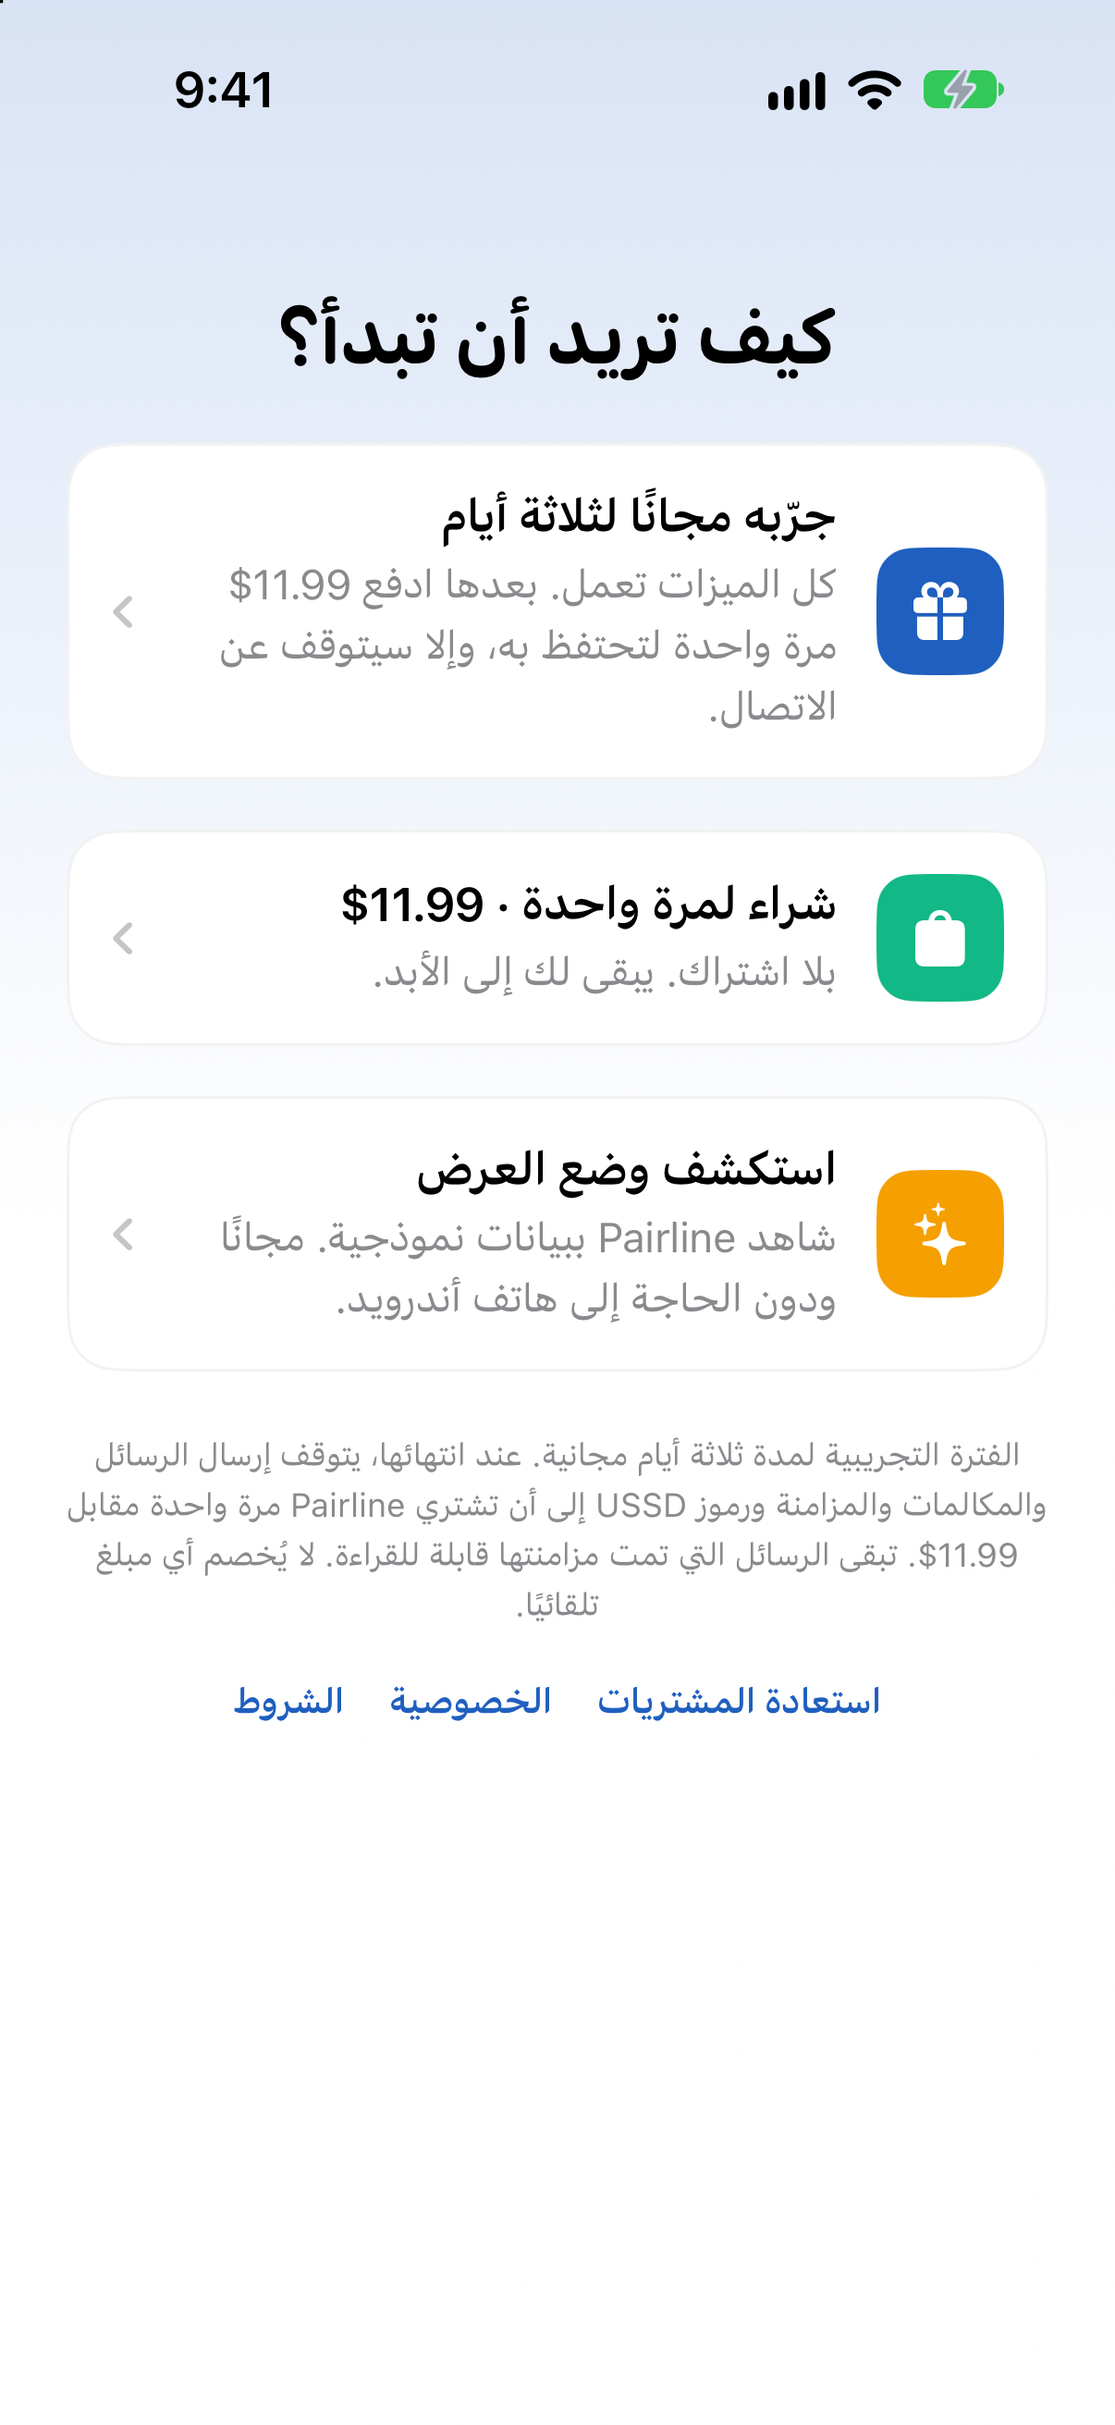
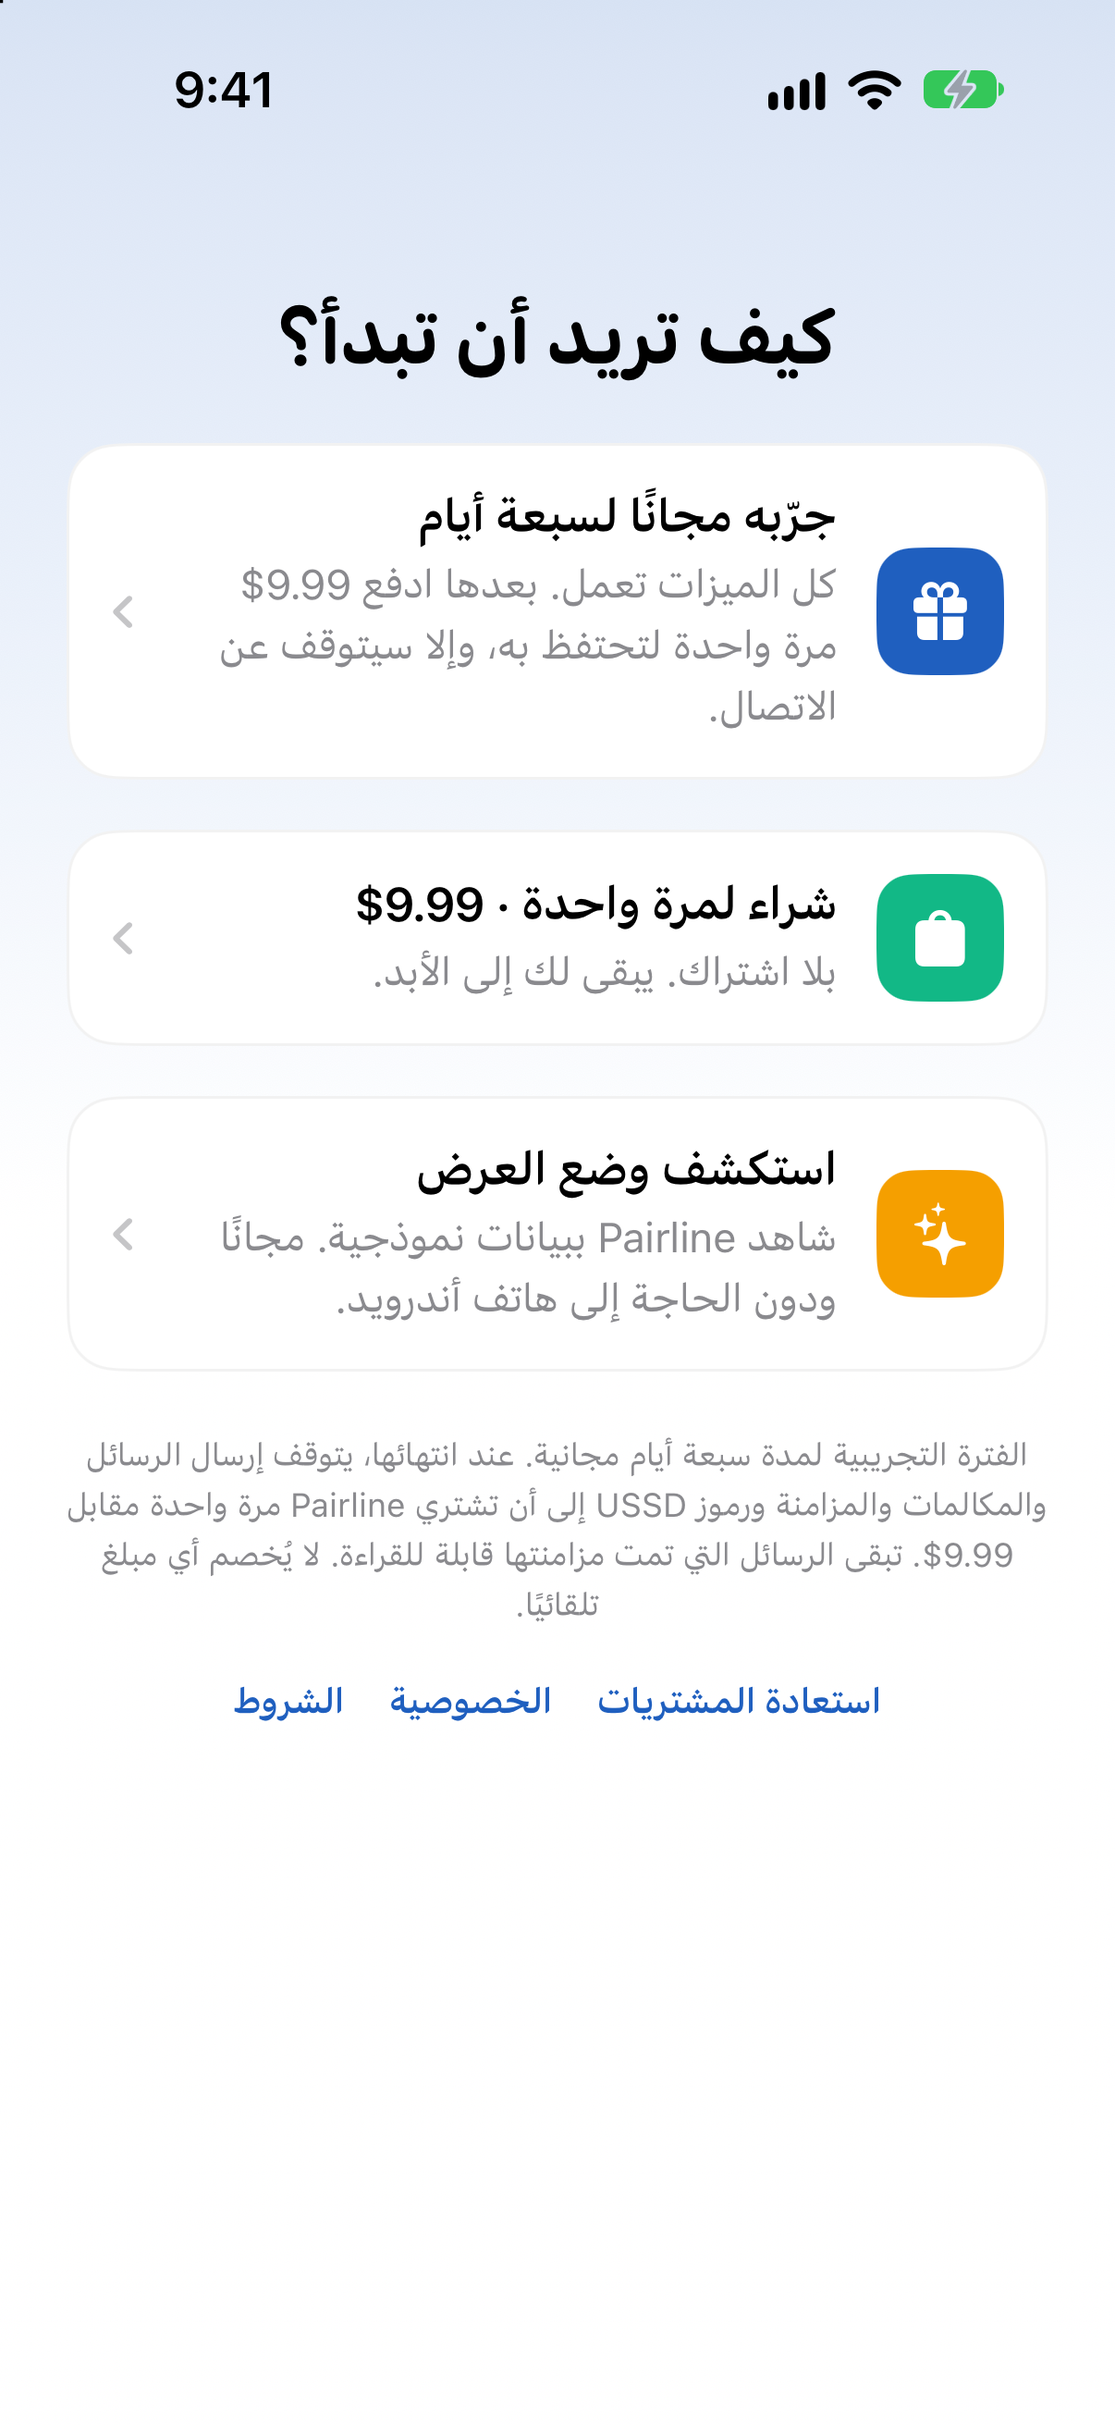
7-day free trial and $9.99 (D-036): new 7-day Trial product, texts in EN/FA/AR/TR, StoreKit file, tests, listing copy
- TrialPolicy.duration 7 days; trial product app.pairline.ios.trial7day ('7-day Trial', free, no payment method)
- Full Access $9.99 (StoreKit file, fallback price, App Store Connect)
- Every trial/price text and its fa/ar/tr translation; start-options and paywall screenshots retaken
- Marketing screenshots use the list price instead of a cached sandbox price (debug builds only)
- App Store description, promotional text, slide 7, review notes and iap.py updated

diff --git a/ios/PairlineTests/BusinessLogicTests.swift b/ios/PairlineTests/BusinessLogicTests.swift
@@ -26,14 +26,14 @@ final class TrialPolicyTests: XCTestCase {
 
     func testTurningTheClockBackDoesNotExtendTheTrial() {
         let store = MemoryTimeStore()
-        // Day 4: the trial has ended, and the app saw that time.
-        let day4 = start.addingTimeInterval(4 * 86400)
-        let seen = TrialPolicy.trustedNow(deviceNow: day4, highWater: store.highWater, signedDates: [start])
+        // Day 8: the trial has ended, and the app saw that time.
+        let day8 = start.addingTimeInterval(8 * 86400)
+        let seen = TrialPolicy.trustedNow(deviceNow: day8, highWater: store.highWater, signedDates: [start])
         store.save(seen)
         // The user sets the clock back to day 1.
         let rewound = start.addingTimeInterval(86400)
         let now = TrialPolicy.trustedNow(deviceNow: rewound, highWater: store.highWater, signedDates: [start])
-        XCTAssertEqual(now, day4)
+        XCTAssertEqual(now, day8)
         XCTAssertEqual(TrialPolicy.state(purchased: false, trialStart: start, now: now),
                        .expired(endedAt: start.addingTimeInterval(TrialPolicy.duration)))
     }
@@ -53,7 +53,7 @@ final class TrialPolicyTests: XCTestCase {
 
     func testRemainingAndReminder() {
         let end = start.addingTimeInterval(TrialPolicy.duration)
-        XCTAssertEqual(TrialPolicy.remaining(until: end, now: start).days, 3)
+        XCTAssertEqual(TrialPolicy.remaining(until: end, now: start).days, 7)
         let left = TrialPolicy.remaining(until: end, now: end.addingTimeInterval(-(26 * 3600 + 60)))
         XCTAssertEqual(left.days, 1)
         XCTAssertEqual(left.hours, 3)

diff --git a/ios/Pairline/Store/PaywallView.swift b/ios/Pairline/Store/PaywallView.swift
@@ -1,6 +1,6 @@
 import SwiftUI
 
-/// One-time purchase with a free 3-day trial (D-017). Before the trial starts it states the duration, what stops
+/// One-time purchase with a free 7-day trial (D-017, D-036). Before the trial starts it states the duration, what stops
 /// working afterwards, and the price (App Review guideline 3.1.1).
 struct PaywallView: View {
     @Environment(\.dismiss) private var dismiss
@@ -114,7 +114,7 @@ struct PaywallView: View {
                         if await purchases.startTrial() { finish() }
                     }
                 } label: {
-                    busyLabel(Text("Start 3-day free trial"))
+                    busyLabel(Text("Start 7-day free trial"))
                 }
                 .buttonStyle(PrimaryButtonStyle())
                 .disabled(purchases.busy)
@@ -127,7 +127,7 @@ struct PaywallView: View {
                 }
                 .buttonStyle(SecondaryButtonStyle())
                 .disabled(purchases.busy)
-                Text("Free for 3 days, then \(purchases.priceText) once to keep using Pairline. If you don't buy, sending messages, calls, syncing and USSD stop after the trial; your synced messages stay readable. Nothing is charged automatically.")
+                Text("Free for 7 days, then \(purchases.priceText) once to keep using Pairline. If you don't buy, sending messages, calls, syncing and USSD stop after the trial; your synced messages stay readable. Nothing is charged automatically.")
                     .font(.caption)
                     .foregroundStyle(.secondary)
                     .multilineTextAlignment(.center)

diff --git a/ios/Pairline/Onboarding/OnboardingFlow.swift b/ios/Pairline/Onboarding/OnboardingFlow.swift
@@ -229,7 +229,7 @@ private struct ChoicePage: View {
                         onPair()
                     }
                 default:
-                    OptionCard(symbol: "gift.fill", tint: .brandFill, title: Text("Try free for 3 days"),
+                    OptionCard(symbol: "gift.fill", tint: .brandFill, title: Text("Try free for 7 days"),
                                text: Text("Everything works. Then \(purchases.priceText) once to keep it, or it stops connecting.")) {
                         Task {
                             if await purchases.startTrial() { onPair() }
@@ -249,7 +249,7 @@ private struct ChoicePage: View {
                 if purchases.busy {
                     ProgressView().padding(.top, 4)
                 }
-                Text("The 3-day trial is free. When it ends, sending messages, calls, syncing and USSD stop until you buy Pairline for \(purchases.priceText) once. Messages already synced stay readable. Nothing is charged automatically.")
+                Text("The 7-day trial is free. When it ends, sending messages, calls, syncing and USSD stop until you buy Pairline for \(purchases.priceText) once. Messages already synced stay readable. Nothing is charged automatically.")
                     .font(.caption)
                     .foregroundStyle(.secondary)
                     .multilineTextAlignment(.center)

diff --git a/ios/Pairline/Store/PurchaseManager.swift b/ios/Pairline/Store/PurchaseManager.swift
@@ -1,13 +1,13 @@
 import Foundation
 import StoreKit
 
-/// StoreKit 2 purchases (D-017). Two non-consumables: a free "3-day Trial" and "Pairline Full Access".
+/// StoreKit 2 purchases (D-017, D-036). Two non-consumables: a free "7-day Trial" and "Pairline Full Access".
 /// Entitlements are verified on the device from Apple-signed transactions; there's no receipt server.
 @MainActor
 final class PurchaseManager: ObservableObject {
-    static let trialID = "app.pairline.ios.trial3day"
+    static let trialID = "app.pairline.ios.trial7day"
     static let fullID = "app.pairline.ios.full"
-    static let fallbackPrice = "$11.99"
+    static let fallbackPrice = "$9.99"
 
     @Published private(set) var access: AccessState = .loading
     @Published private(set) var fullProduct: Product?
@@ -49,7 +49,13 @@ final class PurchaseManager: ObservableObject {
         }
     }
 
-    var priceText: String { fullProduct?.displayPrice ?? Self.fallbackPrice }
+    var priceText: String {
+        #if DEBUG
+        // Store screenshots show the list price, not whatever the App Store sandbox still has cached.
+        if DebugSettings.marketingScreenshots { return Self.fallbackPrice }
+        #endif
+        return fullProduct?.displayPrice ?? Self.fallbackPrice
+    }
 
     func loadProducts() async {
         do {

diff --git a/docs/app-store/slides.html b/docs/app-store/slides.html
@@ -116,9 +116,9 @@ const SLIDES = [
     ar: ["الخصوصية", "الخصوصية\nفي الأساس", "تشفير تام بين هاتفيك. بلا خوادم ولا حسابات ولا تتبّع."],
     tr: ["Gizlilik", "Gizlilik\nen baştan", "Uçtan uca şifreli. Sunucu yok, hesap yok, izleme yok."] },
   { shot: "02-start-options",
-    en: ["One-time purchase", "Pay once.\nKeep it.", "Try it free for 3 days. No subscription, ever."],
-    ar: ["شراء لمرة واحدة", "ادفع مرة واحدة\nواحتفظ به", "جرّبه مجانًا لمدة 3 أيام. بلا اشتراك أبدًا."],
-    tr: ["Tek seferlik satın alma", "Bir kez ödeyin,\nsizin olsun", "3 gün ücretsiz deneyin. Abonelik yok."] },
+    en: ["One-time purchase", "Pay once.\nKeep it.", "Try it free for a week. No subscription, ever."],
+    ar: ["شراء لمرة واحدة", "ادفع مرة واحدة\nواحتفظ به", "جرّبه مجانًا لمدة أسبوع. بلا اشتراك أبدًا."],
+    tr: ["Tek seferlik satın alma", "Bir kez ödeyin,\nsizin olsun", "Bir hafta ücretsiz deneyin. Abonelik yok."] },
 ];
 
 const params = new URLSearchParams(location.hash.slice(1));

diff --git a/ios/PairlineTests/StoreKitTests.swift b/ios/PairlineTests/StoreKitTests.swift
@@ -39,8 +39,8 @@ final class StoreKitTests: XCTestCase {
         XCTAssertEqual(trial?.type, .nonConsumable)
         XCTAssertEqual(trial?.price, 0)
         XCTAssertEqual(full?.type, .nonConsumable)
-        XCTAssertEqual(full?.price, Decimal(string: "11.99"))
-        XCTAssertEqual(trial?.displayName, "3-day Trial")
+        XCTAssertEqual(full?.price, Decimal(string: "9.99"))
+        XCTAssertEqual(trial?.displayName, "7-day Trial")
     }
 
     func testTrialThenExpiryThenPurchase() async throws {
@@ -55,8 +55,8 @@ final class StoreKitTests: XCTestCase {
         XCTAssertEqual(end.timeIntervalSince(now), TrialPolicy.duration, accuracy: 120)
         XCTAssertTrue(manager.access.allowsLink)
 
-        // Four days later the link features lock.
-        now = now.addingTimeInterval(4 * 86400)
+        // Eight days later the link features lock.
+        now = now.addingTimeInterval(8 * 86400)
         manager.evaluate()
         guard case .expired = manager.access else { return XCTFail("expected expired, got \(manager.access)") }
         XCTAssertFalse(manager.access.allowsLink)

diff --git a/ios/Pairline/Settings/HelpCenterView.swift b/ios/Pairline/Settings/HelpCenterView.swift
@@ -227,7 +227,7 @@ struct FAQ: Identifiable {
         FAQ(id: 4, question: "Can I talk on the iPhone during calls?",
             answer: "Not yet. You answer, decline and place calls from the iPhone, and the audio stays on the Android phone. iPhone call audio is planned."),
         FAQ(id: 5, question: "What happens after the free trial?",
-            answer: "After 3 days, sending messages, calls, syncing and USSD stop until you buy Pairline once. Messages already on this iPhone stay readable, and demo mode, help and settings keep working."),
+            answer: "After 7 days, sending messages, calls, syncing and USSD stop until you buy Pairline once. Messages already on this iPhone stay readable, and demo mode, help and settings keep working."),
         FAQ(id: 6, question: "Is it a subscription?",
             answer: "No. Pairline is a one-time purchase. The Android app is free."),
         FAQ(id: 7, question: "Can I see the source code?",

diff --git a/ios/Pairline/Store/TrialPolicy.swift b/ios/Pairline/Store/TrialPolicy.swift
@@ -1,6 +1,6 @@
 import Foundation
 
-/// Access to link features under D-017: 3 free days from the trial's Apple-signed purchase date, then a
+/// Access to link features under D-017 and D-036: 7 free days from the trial's Apple-signed purchase date, then a
 /// one-time purchase.
 enum AccessState: Equatable {
     case loading
@@ -25,7 +25,8 @@ enum AccessState: Equatable {
 }
 
 enum TrialPolicy {
-    static let duration: TimeInterval = 3 * 24 * 3600
+    /// A free week (D-036).
+    static let duration: TimeInterval = 7 * 24 * 3600
     /// The reminder goes out about a day before the trial ends.
     static let reminderLead: TimeInterval = 24 * 3600
 

diff --git a/ios/Pairline/App/RootView.swift b/ios/Pairline/App/RootView.swift
@@ -231,7 +231,7 @@ struct BridgeBanners: View {
                             .font(.subheadline.weight(.semibold))
                     }
                 case .notStarted where app.isPaired:
-                    InfoBanner(symbol: "gift.fill", tint: .brandBlue, text: Text("Start your 3 free days to connect.")) {
+                    InfoBanner(symbol: "gift.fill", tint: .brandBlue, text: Text("Start your free week to connect.")) {
                         Button("Start") { app.showPaywall = true }
                             .font(.subheadline.weight(.semibold))
                     }

diff --git a/docs/app-store/api/iap.py b/docs/app-store/api/iap.py
@@ -12,18 +12,19 @@ REPO = os.path.abspath(os.path.join(os.path.dirname(os.path.abspath(__file__)), 
 REVIEW_SHOT = f"{REPO}/docs/screenshots/ios/en/03-paywall.png"
 PRODUCTS = [
     {
-        "productId": "app.pairline.ios.trial3day", "name": "3-day Trial", "price": "0.0",
+        "productId": "app.pairline.ios.trial7day", "name": "7-day Trial", "price": "0.0",
         "image": f"{REPO}/docs/app-store/out/iap/trial.png",
-        "reviewNote": "Free non-consumable that starts the 3-day trial (App Review Guideline 3.1.1). When the 3 days "
-                      "end, the app asks the user to buy Pairline Full Access. Nothing renews or is charged.",
+        "reviewNote": "Free non-consumable that starts the 7-day trial (App Review Guideline 3.1.1); it needs no "
+                      "payment method. When the 7 days end, the app asks the user to buy Pairline Full Access. "
+                      "Nothing renews or is charged.",
         "loc": {
-            "en-US": ("3-day Trial", "Try every Pairline feature free for 3 days."),
-            "ar-SA": ("تجربة لمدة 3 أيام", "جرّب كل ميزات Pairline مجانًا لمدة 3 أيام."),
-            "tr": ("3 Günlük Deneme", "Tüm özellikleri 3 gün ücretsiz deneyin."),
+            "en-US": ("7-day Trial", "Try every Pairline feature free for 7 days."),
+            "ar-SA": ("تجربة لمدة 7 أيام", "جرّب كل ميزات Pairline مجانًا لمدة 7 أيام."),
+            "tr": ("7 Günlük Deneme", "Tüm özellikleri 7 gün ücretsiz deneyin."),
         },
     },
     {
-        "productId": "app.pairline.ios.full", "name": "Pairline Full Access", "price": "11.99",
+        "productId": "app.pairline.ios.full", "name": "Pairline Full Access", "price": "9.99",
         "image": f"{REPO}/docs/app-store/out/iap/full.png",
         "reviewNote": "One-time purchase that unlocks Pairline permanently. Restore Purchases is on the start "
                       "screen, the paywall and in Settings.",
@@ -102,12 +103,15 @@ for p in PRODUCTS:
         ok(*request("POST", "/v1/inAppPurchaseLocalizations", body), f"localization {locale}")
         print("  localization", locale)
 
+    points = all_pages(f"/v2/inAppPurchases/{iap_id}/pricePoints?filter%5Bterritory%5D=USA&limit=200")
+    point = next(pp for pp in points if float(pp["attributes"]["customerPrice"]) == float(p["price"]))
     status, sched = request("GET", f"/v2/inAppPurchases/{iap_id}/iapPriceSchedule?include=manualPrices")
-    if status == 200 and sched.get("included"):
-        print("  price already set")
+    current = {(x.get("relationships", {}).get("inAppPurchasePricePoint", {}).get("data") or {}).get("id")
+               for x in (sched.get("included", []) if status == 200 else [])}
+    if point["id"] in current:
+        print("  price already", p["price"])
     else:
-        points = all_pages(f"/v2/inAppPurchases/{iap_id}/pricePoints?filter%5Bterritory%5D=USA&limit=200")
-        point = next(pp for pp in points if pp["attributes"]["customerPrice"] in (p["price"], p["price"].rstrip("0").rstrip(".") or "0"))
+        # Posting a schedule replaces the previous one (a price change takes effect right away).
         body = {"data": {"type": "inAppPurchasePriceSchedules",
                          "relationships": {"inAppPurchase": {"data": {"type": "inAppPurchases", "id": iap_id}},
                                            "baseTerritory": {"data": {"type": "territories", "id": "USA"}},

diff --git a/docs/app-store/README.md b/docs/app-store/README.md
@@ -47,8 +47,8 @@ account). "Pairline" alone is taken on the App Store, so the store name is "Pair
   (`asc review items add --item-type appAssetLibraryImages`). Apple's rules: no price, URL, copyright mark, awards
   or other platforms' logos.
 - **App icon:** comes from the build (`ios/Pairline/Resources/Assets.xcassets/AppIcon.appiconset`, no alpha channel).
-- **In-app purchases:** `app.pairline.ios.trial3day` "3-day Trial" (non-consumable, free) and `app.pairline.ios.full`
-  "Pairline Full Access" (non-consumable, $11.99). Each needs a review screenshot (use
+- **In-app purchases:** `app.pairline.ios.trial7day` "7-day Trial" (non-consumable, free) and `app.pairline.ios.full`
+  "Pairline Full Access" (non-consumable, $9.99) (D-036). Each needs a review screenshot (use
   `docs/screenshots/ios/en/03-paywall.png`); the promotional images are optional.
 - **App Privacy:** "Data Not Collected" (`docs/PRIVACY.md`: nothing leaves the user's two phones).
 - **Availability:** remove China mainland (CallKit, D-027).

diff --git a/docs/PRIVACY.md b/docs/PRIVACY.md
@@ -106,7 +106,7 @@ release builds, checked by CI with `ios-policy-check.sh`): the app can connect t
 | Notifications | New SMS, one-time codes, bridge battery alerts and the trial reminder (all local; no push) | After pairing, or from Settings |
 | Background mode `bluetooth-central` | iOS wakes Pairline for Bluetooth events from the bridge phone | No prompt |
 | CallKit (no prompt) | Shows calls on the iPhone call screen. Calls are added to iPhone Recents only if you turn that on | — |
-| In-App Purchase (no prompt) | The free 3-day trial and the one-time purchase (D-017) | — |
+| In-App Purchase (no prompt) | The free 7-day trial and the one-time purchase (D-017, D-036) | — |
 | App Group `group.app.pairline.ios` (no prompt) | Shares the bridge status with Pairline's widget | — |
 | Local Network (M5) | The Wi-Fi link | Not yet requested |
 | Microphone (M6) | Call audio | Not yet requested |
